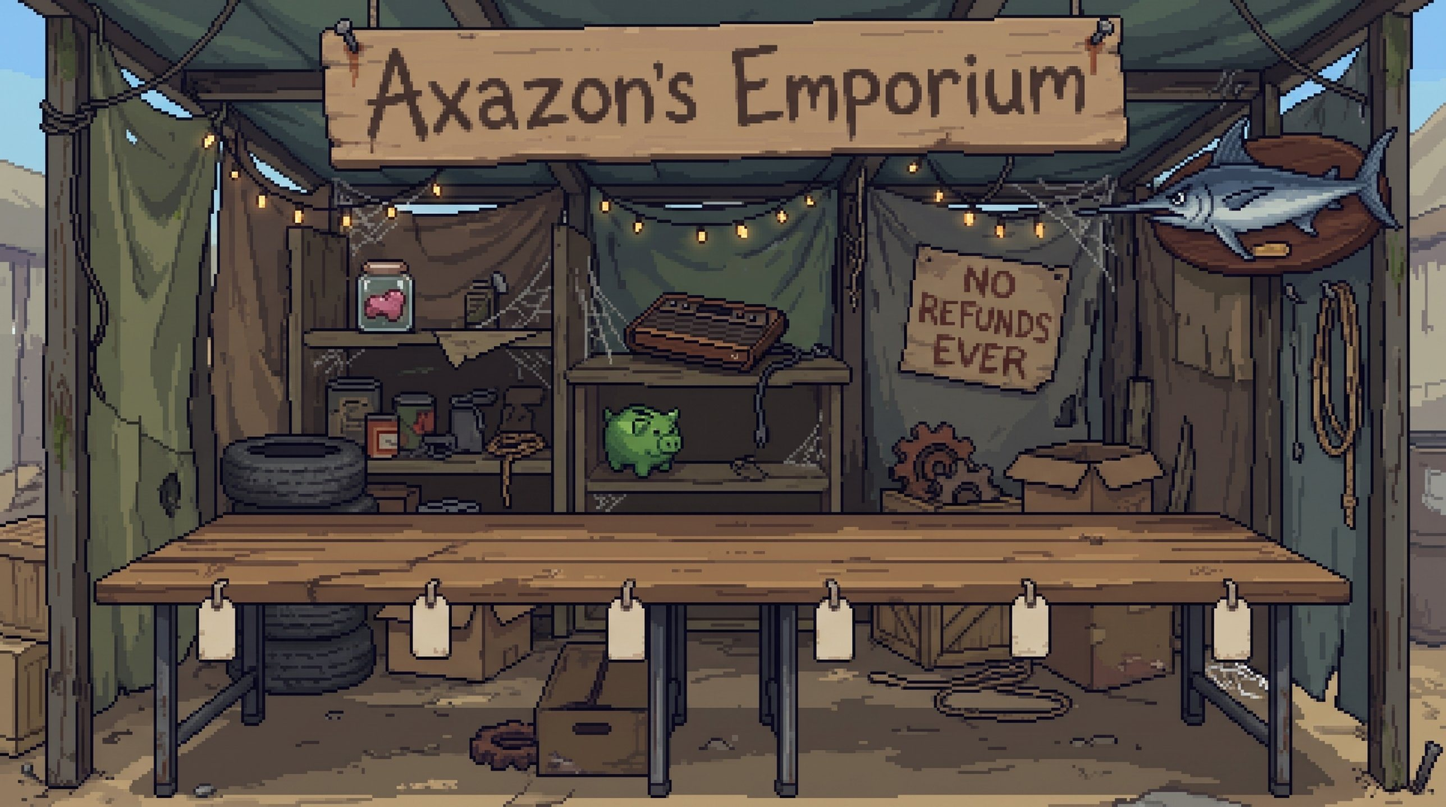
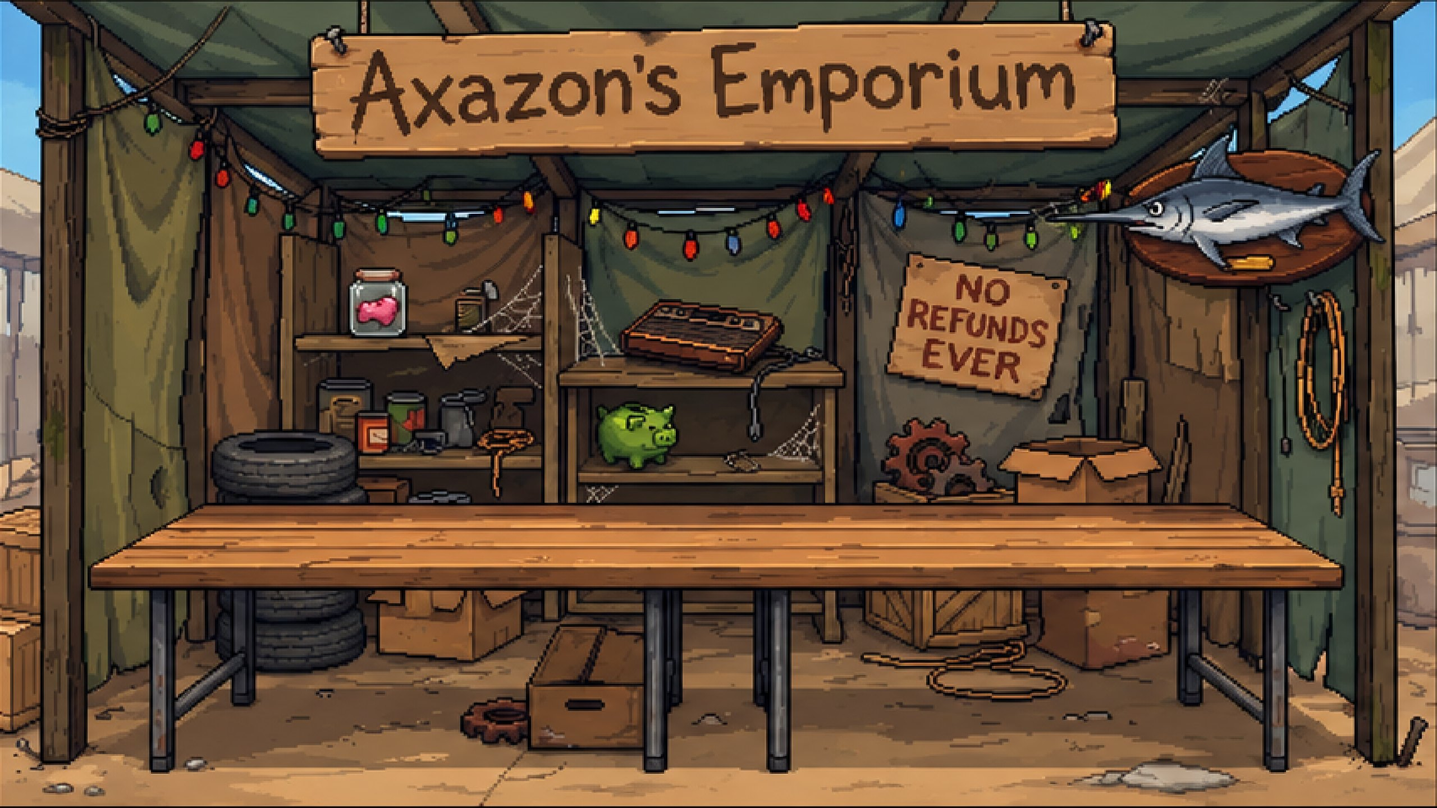
Emporium day/night backgrounds; singing Gary plaque popup
Claude-Session: https://claude.ai/code/session_01JjVzf52scR2Hecsso6dYfx

diff --git a/fish_song.js b/fish_song.js
@@ -1,17 +1,53 @@
 // ---- the singing swordfish: "The Ghost of Gallows Reef" by kaazoom (Pixabay), cut down and squeezed through a cheap toy speaker ----
 // fishSing(fallback): plays the shanty once (no stacking). Returns true if it's singing. fallback runs if the clip can't play.
+// While he sings, a popup shows Gary on his plaque flopping along like the real singing-fish plaque (frames by Ada: media/fishpop_1-5.webp):
+// 1 = rest, 2 = mouth half open, 3 = mouth wide (singing), 4 = head turned out at you, 5 = tail flick.
 (function () {
-  let a = null;
+  let a = null, pop = null, anim = 0;
+  const F = (n) => 'media/fishpop_' + n + '.webp';
+  [1, 2, 3, 4, 5].forEach(n => { const i = new Image(); i.src = F(n); });
+  function showPop() {
+    if (!pop) {
+      const css = document.createElement('style');
+      css.textContent = `#fishPop { position: fixed; left: 50%; bottom: 22px; transform: translateX(-50%) translateY(140%); z-index: 9800; width: min(340px, 72vw); padding: 10px 12px 8px; border-radius: 14px; background: linear-gradient(170deg, #1c1410, #2a1d14); border: 3px solid #b45309; box-shadow: 0 14px 34px rgba(0,0,0,.7); text-align: center; transition: transform .45s cubic-bezier(.2,1.4,.4,1); pointer-events: auto; cursor: pointer; }
+        #fishPop.on { transform: translateX(-50%) translateY(0); }
+        #fishPop img { display: block; width: 100%; height: auto; image-rendering: pixelated; }
+        #fishPop .cap { font: 800 15px/1.2 system-ui, sans-serif; color: #fde68a; margin-top: 2px; letter-spacing: .04em; }
+        @media (prefers-reduced-motion: reduce) { #fishPop { transition: none; } }`;
+      document.head.appendChild(css);
+      pop = document.createElement('div'); pop.id = 'fishPop'; pop.setAttribute('role', 'status'); pop.title = 'Click to make him stop (he will not)';
+      pop.innerHTML = `<img src="${F(1)}" alt="Gary the singing swordfish"><div class="cap">🎵 GARY IS SINGING 🎵</div>`;
+      pop.onclick = () => { if (a) a.pause(); };
+      document.body.appendChild(pop);
+    }
+    pop.style.display = 'block'; void pop.offsetWidth; pop.classList.add('on');
+    const img = pop.querySelector('img');
+    // the routine: the head swings out at you at the start, then mouth-flaps with the music, tail flicks, and swings out again near the end
+    let t = 0, out = 0; clearInterval(anim);
+    anim = setInterval(() => {
+      if (!a) return; const ct = a.currentTime || 0, dur = a.duration || 15; t++;
+      if (ct < 1.4 || (ct > dur - 3.2 && ct < dur - 1.2)) { img.src = F(4); out = 1; return; }
+      if (out) { out = 0; img.src = F(1); return; }
+      const r = Math.random();
+      img.src = r < .08 ? F(5) : (t % 2 ? F(r < .55 ? 3 : 2) : F(1));
+    }, 170);
+  }
+  function hidePop() {
+    clearInterval(anim); if (!pop) return;
+    pop.querySelector('img').src = F(5); setTimeout(() => { if (pop) pop.querySelector('img').src = F(1); }, 250);
+    setTimeout(() => { if (pop) pop.classList.remove('on'); }, 700);
+  }
   window.fishSing = function (fallback) {
     let vol = 0.6;
     try { const v = parseFloat(localStorage.getItem('painWheelVolume')); if (!isNaN(v)) vol = Math.max(0, Math.min(1, v)); if (localStorage.getItem('painWheelMuted') === 'true') vol = 0; } catch (e) {}
     if (!vol) return false;
     if (a && !a.paused && !a.ended) return true;   // already singing
-    a = new Audio('media/audio_fish_shanty.mp3?v=3'); a.volume = 0.385 * vol;   // 30% quieter than before
+    a = new Audio('media/audio_fish_shanty.mp3?v=3'); a.volume = 0.385 * vol;
     // the background music steps aside while he sings (every page's music listens to window.__wf), then comes back
     const was = window.__wf !== false; window.__fishSinging = true; window.__wf = false; dispatchEvent(new Event('wfchange'));
-    const back = () => { if (!window.__fishSinging) return; window.__fishSinging = false; if (was && document.hasFocus()) { window.__wf = true; dispatchEvent(new Event('wfchange')); } };
+    const back = () => { hidePop(); if (!window.__fishSinging) return; window.__fishSinging = false; if (was && document.hasFocus()) { window.__wf = true; dispatchEvent(new Event('wfchange')); } };
     a.addEventListener('ended', back); a.addEventListener('pause', back); a.addEventListener('error', back);
+    a.addEventListener('playing', showPop, { once: true });
     a.play().catch(() => { back(); a = null; if (fallback) fallback(); });
     return true;
   };

diff --git a/wheel.html b/wheel.html
@@ -923,7 +923,7 @@
                 <div class="text-xs font-bold uppercase tracking-wider text-slate-400 mb-2">📰 Patch notes</div>
                 <button id="updateReopen" class="px-3 py-1.5 rounded bg-amber-700 hover:bg-amber-600 text-white text-xs font-bold cursor-pointer">See what's new</button>
                 <a href="./" class="ml-2 text-xs text-amber-300 underline" title="It's all connected"><img src="media/board_icon.png" alt="" style="display:inline-block;height:1.15em;width:auto;vertical-align:-.25em;margin-right:.25em;border-radius:2px">The Board</a>
-                <span id="buildStamp" class="ml-2 text-xs text-slate-500" title="If this is old, press Ctrl+F5">Version: Nov 14, 10:19 PM CT</span>
+                <span id="buildStamp" class="ml-2 text-xs text-slate-500" title="If this is old, press Ctrl+F5">Version: Nov 14, 10:32 PM CT</span>
             </div>
             <div class="mt-5 pt-4 border-t border-slate-800 text-xs font-bold uppercase tracking-wider text-slate-400 mb-2">🔤 Font</div>
             <div id="fontPicks" class="grid grid-cols-2 sm:grid-cols-3 gap-2"><button type="button" class="font-pick" data-font="pixel"><b class="fp-name">Pixel Goblin</b><span class="fp-sample">KEVIN · Spin Again</span><span class="fp-sub">Pixelify Sans + Atkinson Hyperlegible</span></button><button type="button" class="font-pick" data-font="silk"><b class="fp-name">Arcade Caps</b><span class="fp-sample">KEVIN · Spin Again</span><span class="fp-sub">Silkscreen + Nunito Sans</span></button><button type="button" class="font-pick" data-font="pirata"><b class="fp-name">Pirate Gothic</b><span class="fp-sample">KEVIN · Spin Again</span><span class="fp-sub">Pirata One + Barlow</span></button><button type="button" class="font-pick" data-font="germania"><b class="fp-name">Iron Fraktur</b><span class="fp-sample">KEVIN · Spin Again</span><span class="fp-sub">Germania One + Barlow</span></button><button type="button" class="font-pick" data-font="tiny"><b class="fp-name">Tiny Pixel</b><span class="fp-sample">KEVIN · Spin Again</span><span class="fp-sub">Tiny5 + Atkinson Hyperlegible</span></button><button type="button" class="font-pick" data-font="jersey"><b class="fp-name">Arcade Cabinet</b><span class="fp-sample">KEVIN · Spin Again</span><span class="fp-sub">Jersey 15 + Atkinson Hyperlegible</span></button></div>
@@ -10263,6 +10263,8 @@ const PHOTO_ICO_TEXTSIZE = "media/photo_ico_textsize.png?v=ee06b30a";
         id: '2026-11-07-fixed', title: 'The claw, the liver and the ghost town', date: 'November 6-7, 2026',
         showAfter: Date.parse('2026-11-07T06:00:00Z'),   // re-issued Nov 7 with corrected notes, so it pops up again for everyone
         lines: [
+            ['🌙', "The Emporium got a fresh coat of paint, and after dark the string lights come on."],
+            ['🐟', "When Gary sings now, you get to watch. You're welcome. We're sorry."],
             ['🖥', "Somebody left their computer on in the VIP room. Once the 8/11 is open, the right monitor is worth a look."],
             ['📞', "The brick phone works like a real landline now: one call at a time. Everyone else gets a busy signal."],
             ['🤝', "You can haggle with Axazon now. One try per item per restock. He's exactly as pleasant about it as you'd expect."],

diff --git a/emporium.html b/emporium.html
@@ -13,7 +13,8 @@
   nav a.alt { background: #3f3a2e; color: #fde68a; }
   .wrap { flex: 1; display: grid; place-items: center; padding: 0 12px 6px; }
   .scroller { width: 100%; overflow-x: auto; display: grid; place-items: center; }
-  .scene { position: relative; width: min(2576px, 100%, calc((100vh - 150px) * 2576 / 1438)); aspect-ratio: 2576 / 1438; background: url(media/emporium_bg.jpg) 0 0 / 100% 100% no-repeat; border-radius: 10px; box-shadow: 0 0 0 3px #a16207, 0 20px 50px rgba(0,0,0,.7); container-type: inline-size; }
+  .scene { position: relative; width: min(2560px, 100%, calc((100vh - 150px) * 2560 / 1440)); aspect-ratio: 2560 / 1440; background: url(media/emporium_bg.jpg?v=2) 0 0 / 100% 100% no-repeat; border-radius: 10px; box-shadow: 0 0 0 3px #a16207, 0 20px 50px rgba(0,0,0,.7); container-type: inline-size; }
+  .scene.night { background-image: url(media/emporium_bg_night.jpg?v=1); }
   @media (max-width: 700px) { .scene { min-width: 640px; } .scroller { place-items: start; } }
   /* the goods on the table: each sits above its paper tag */
   .item { position: absolute; bottom: 30%; width: 8.4%; height: 13%; translate: -50% 0; padding: 0; border: 0; background: none; cursor: pointer; display: flex; align-items: flex-end; justify-content: center; transition: transform .15s, filter .15s; z-index: 2; }
@@ -186,6 +187,10 @@ const say = (t, ms, pose) => { const d = $('say'); d.innerHTML = '<b>Axazon:</b>
 const gold = () => { const g = get('painWheelGold', 0); return typeof g === 'number' && isFinite(g) ? g : 0; };
 const showGold = () => { if (window.renderGoldBox) renderGoldBox(); else $('goldBox').textContent = '🪙 ' + fmt(gold()); };
 showGold();
+// night market: 8 PM to 6 AM Central the lights come on
+const nightNow = () => { const h = +new Intl.DateTimeFormat('en-US', { timeZone: 'America/Chicago', hour: 'numeric', hour12: false }).format(new Date()) % 24; return h >= 20 || h < 6; };
+const setNight = () => { const sc = document.getElementById('scene'); if (sc) sc.classList.toggle('night', nightNow()); };
+setNight(); setInterval(setNight, 60000);
 const isOpen = () => get('painWheelEmporiumOpen', false) || ((get('painWheelStats', {}) || {}).byType || {}).EMPORIUM > 0;
 
 // sound: the wheel's own clips at the wheel's volume

diff --git a/axa_cameo.js b/axa_cameo.js
@@ -6,7 +6,7 @@ window.AXA_PLACES = {   // x/y/w: % of that place's picture (top-left of the spr
   shack:    { name: 'The Shack',      bg: 'media/shack_interior.jpg',   x: 46.1,  y: 40,   w: 2.5, ar: 1.791, op: .5, flip: true },
   '811':    { name: 'The 8/11',       bg: 'media/store811_bg.jpg',      x: 96.4,  y: 82,   w: 2.6, ar: 1.778, op: .55, flip: true },
   gnome:    { name: 'Gnome Depot',    bg: 'media/gnome_bg.jpg',         x: 12.4,  y: 36.5, w: 2.1, ar: 1.778, op: .42 },
-  emporium: { name: "Axazon's Emporium", bg: 'media/emporium_bg.jpg',   x: 97.3,  y: 35,   w: 1.8, ar: 1.792, op: .45, flip: true },
+  emporium: { name: "Axazon's Emporium", bg: 'media/emporium_bg.jpg?v=2', x: 97.3, y: 35,   w: 1.8, ar: 1.778, op: .45, flip: true },
   yacht:    { name: "Gallywix's Yacht", bg: 'media/yacht_interior.webp', x: 2.6,  y: 34,   w: 3.2, ar: 2.357, op: .45 },
   vip:      { name: 'The VIP Room',   bg: 'media/vip_room.webp',        x: 64.3,  y: 69.5, w: 1.5, ar: 2.357, op: .55 }
 };
